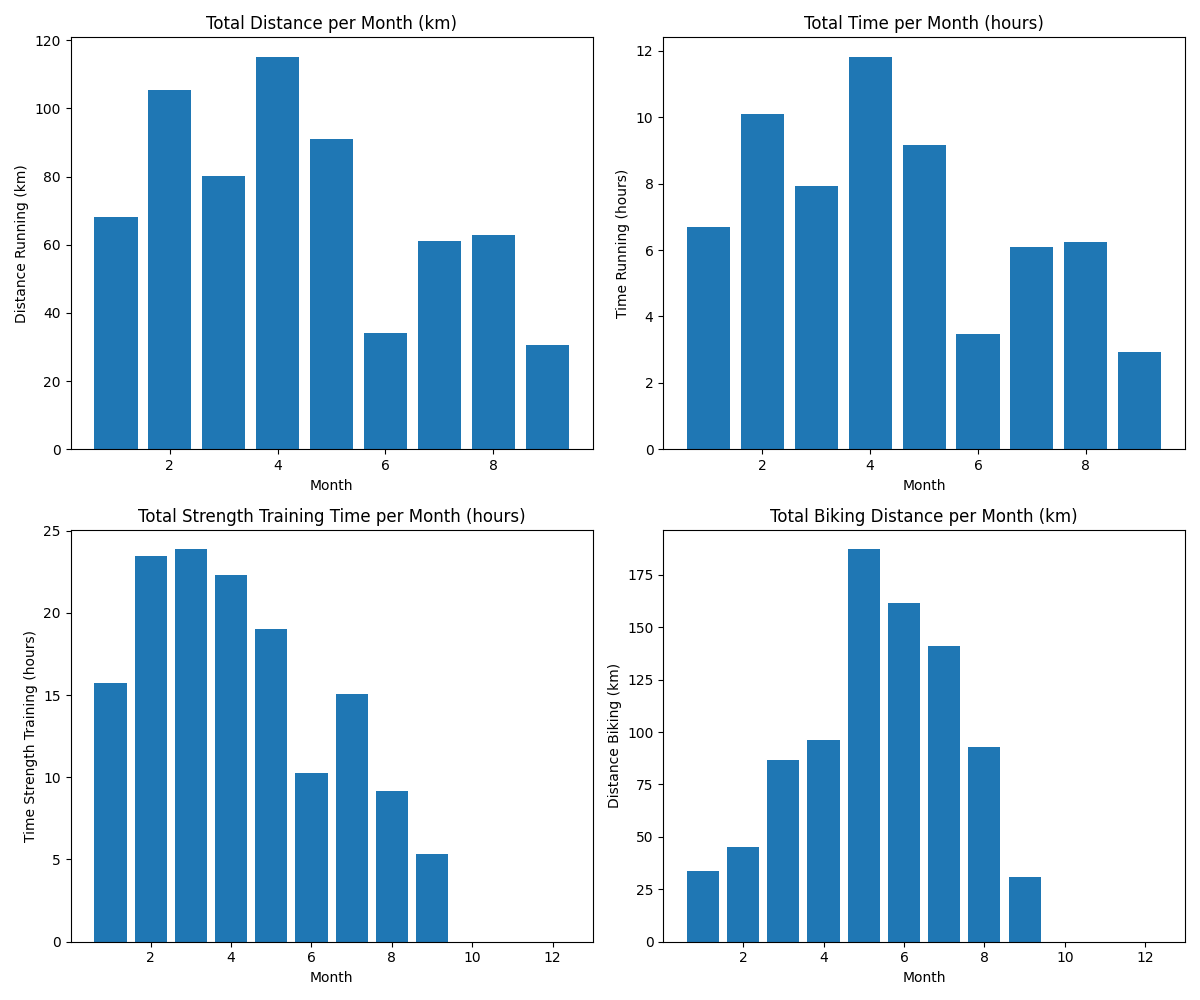
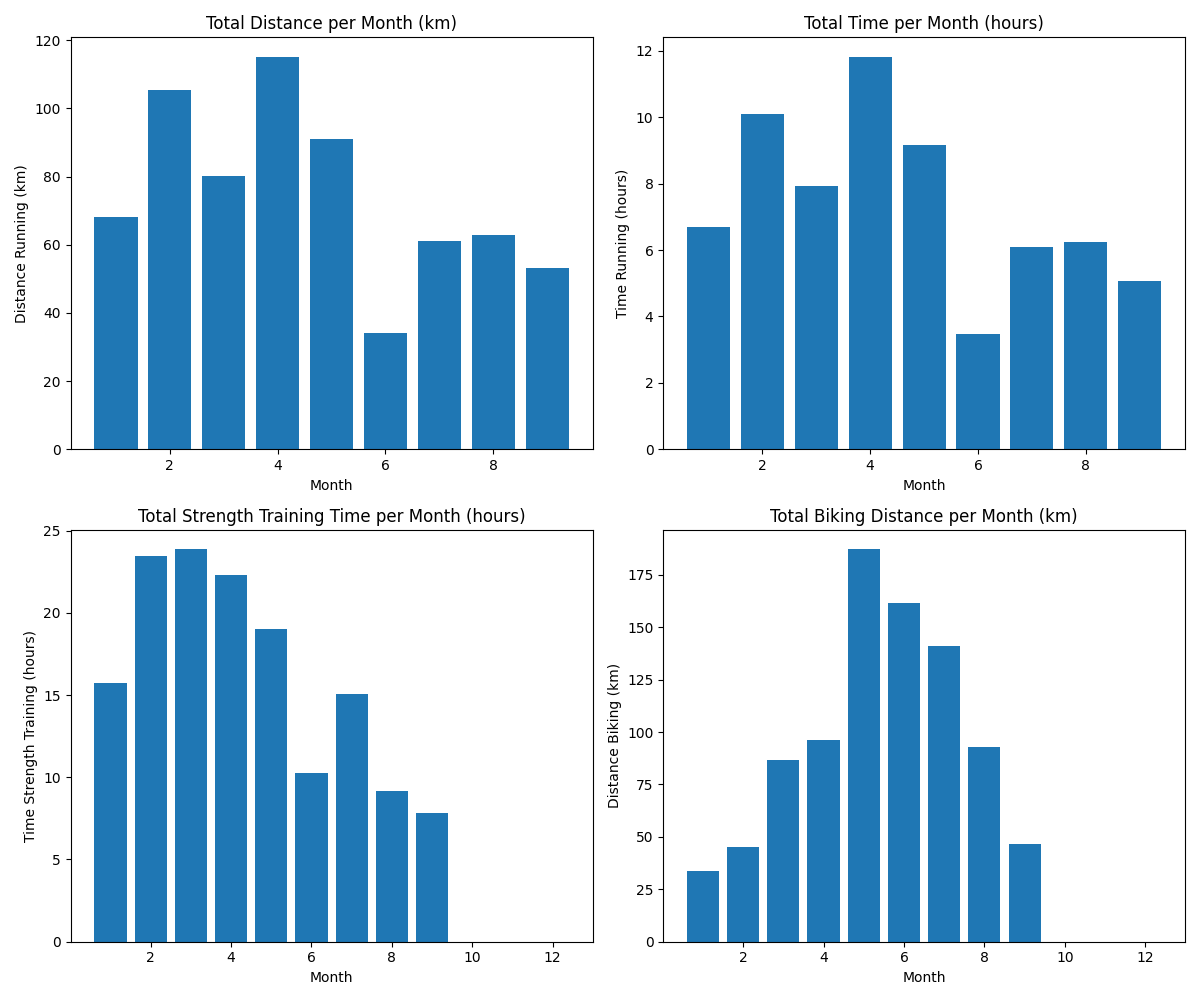
sport update 23.9

diff --git a/Sport/Sport_2026_report.md b/Sport/Sport_2026_report.md
@@ -3,25 +3,25 @@
 ## Sport Counts
 | type   |   count |
 |:-------|--------:|
-| F      |     167 |
+| F      |     171 |
 | S      |      18 |
-| L      |      11 |
+| L      |      12 |
 | B      |       7 |
 | K      |       5 |
-| Total  |     208 |
+| Total  |     213 |
 
 ## Summary
-- **Total distance run on treadmill:** 586.66 km
-- **Total distance run outside:** 61.53 km
-- **Total distance cycled:** 874.81 km
+- **Total distance run on treadmill:** 605.16 km
+- **Total distance run outside:** 65.59 km
+- **Total distance cycled:** 890.31 km
 - **Total distance swimming:** 45.75 km
 - **Total distance skating:** 103.51 km
-- **Total number of sets (strength training):** 8,648
-- **Average number of sets (strength training):** 50.87
+- **Total number of sets (strength training):** 8,798
+- **Average number of sets (strength training):** 50.56
 
 ## Average Speeds
-- **Treadmill running:** 10.01 km/h
-- **Outside running:** 10.36 km/h
-- **Cycling:** 21.14 km/h
+- **Treadmill running:** 10.02 km/h
+- **Outside running:** 10.44 km/h
+- **Cycling:** 21.17 km/h
 - **Swimming:** 2.61 km/h
 - **Inline skating:** 8.94 km/h
